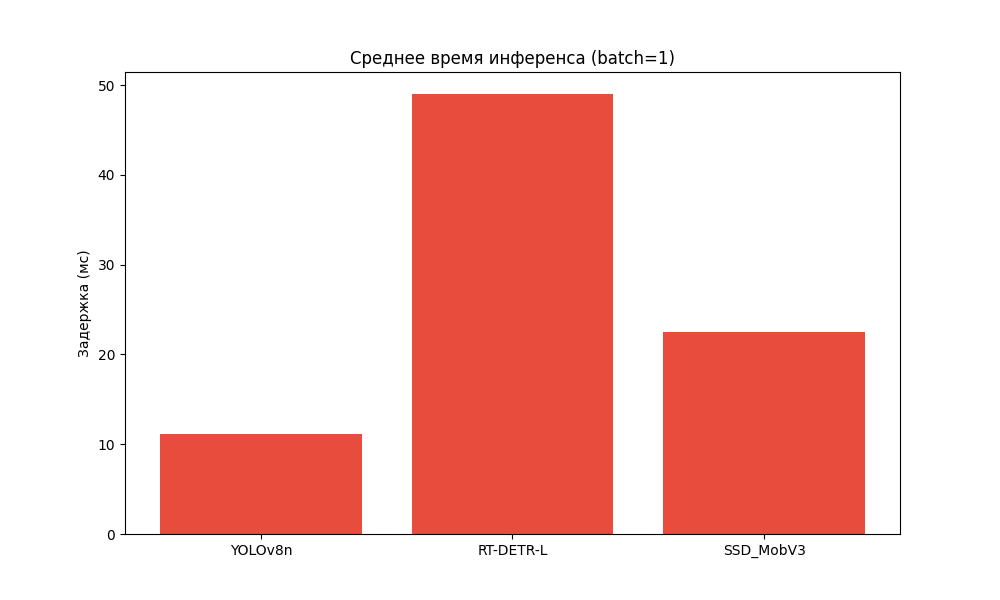
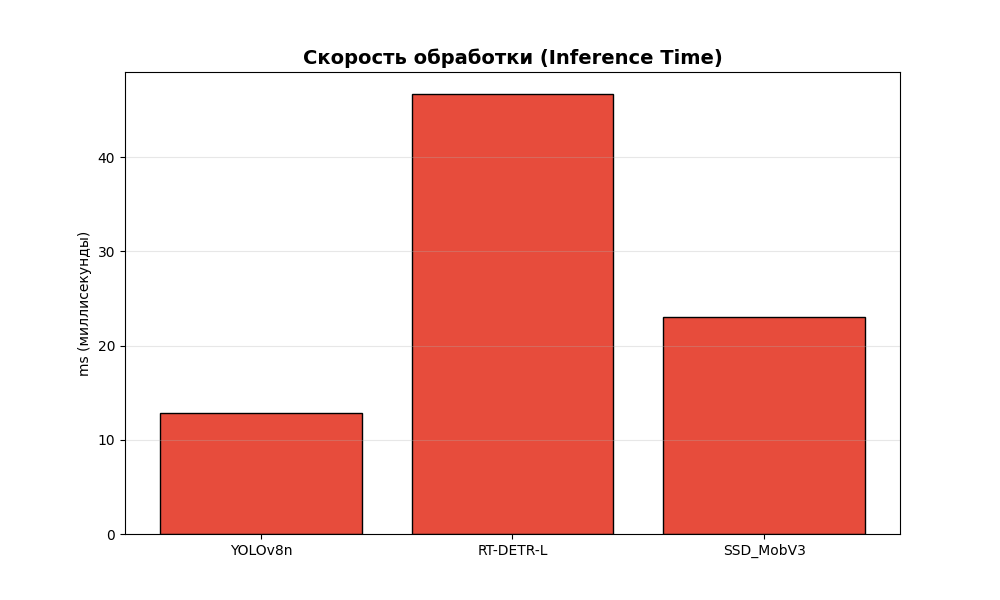
addd new metrics in compation

diff --git a/neural_networks/comparison.py b/neural_networks/comparison.py
@@ -15,13 +15,11 @@ from torchvision.models.detection.ssdlite import SSDLiteClassificationHead
 from functools import partial
 from ultralytics import YOLO, RTDETR
 
-# --- 1. НАСТРОЙКИ GPU ДЛЯ RTX 5050 (Blackwell) ---
 os.environ['TORCH_CUDA_ARCH_LIST'] = '9.0'
 os.environ['CUDA_MODULE_LOADING'] = 'LAZY'
 torch.backends.cudnn.enabled = False 
 torch.backends.cuda.matmul.allow_tf32 = False
 
-# --- 2. ПУТИ ---
 SCRIPT_PATH = Path(__file__).resolve()
 BASE_PATH   = SCRIPT_PATH.parent.parent
 DATASET_DIR = BASE_PATH / "dataset"
@@ -34,10 +32,6 @@ MODELS_CONFIG = [
     {"name": "RT-DETR-L", "path": BASE_PATH / "neural_networks/rf_detr_nano/weights/rtdetr_best.pt", "type": "ultralytics"},
     {"name": "SSD_MobV3", "path": BASE_PATH / "neural_networks/ssd_mobilenetv2/weights/ssd_best.pt", "type": "ssd"}
 ]
-
-# =====================================================================
-# ЛОГИКА SSD (ПОЛНОЕ ВОССОЗДАНИЕ ИЗ SSD_MOBILENETV2.PY)
-# =====================================================================
 
 def build_ssd_model(num_classes=2):
     model = ssdlite320_mobilenet_v3_large(weights=None, weights_backbone=None)
@@ -56,23 +50,26 @@ def ssd_box_iou(box, boxes):
     area2 = (boxes[:, 2] - boxes[:, 0]) * (boxes[:, 3] - boxes[:, 1])
     return inter / (area1 + area2 - inter + 1e-6)
 
-def ssd_match_boxes(pred_boxes, gt_boxes):
-    if len(gt_boxes) == 0: return 0, len(pred_boxes), 0
-    if len(pred_boxes) == 0: return 0, 0, len(gt_boxes)
-    matched_gt = set()
-    tp, fp = 0, 0
-    for pb in pred_boxes:
-        ious = ssd_box_iou(pb.unsqueeze(0), gt_boxes)
-        best_iou, best_idx = ious.max(0)
-        if best_iou >= 0.5 and int(best_idx) not in matched_gt:
-            tp += 1
-            matched_gt.add(int(best_idx))
-        else: fp += 1
-    return tp, fp, len(gt_boxes) - len(matched_gt)
-
-# =====================================================================
-# ТЕСТОВЫЕ ДВИЖКИ
-# =====================================================================
+def calculate_ssd_metrics(pred_boxes, gt_boxes, iou_thresholds):
+    results = []
+    for iou_th in iou_thresholds:
+        if len(gt_boxes) == 0:
+            results.append({'tp': 0, 'fp': len(pred_boxes), 'fn': 0})
+            continue
+        if len(pred_boxes) == 0:
+            results.append({'tp': 0, 'fp': 0, 'fn': len(gt_boxes)})
+            continue
+            
+        matched_gt = set()
+        tp = 0
+        for pb in pred_boxes:
+            ious = ssd_box_iou(pb.unsqueeze(0), gt_boxes)
+            best_iou, best_idx = ious.max(0)
+            if best_iou >= iou_th and int(best_idx) not in matched_gt:
+                tp += 1
+                matched_gt.add(int(best_idx))
+        results.append({'tp': tp, 'fp': len(pred_boxes) - tp, 'fn': len(gt_boxes) - len(matched_gt)})
+    return results
 
 def get_test_subsets():
     img_dir = DATASET_DIR / "images" / "Test"
@@ -85,7 +82,7 @@ def get_test_subsets():
     return day, night
 
 def validate_ultralytics(cfg, file_list, subset_name):
-    print(f"   - Валидация {subset_name}...")
+    print(f"   - Валидация {cfg['name']} ({subset_name})...")
     model = RTDETR(str(cfg['path'])) if "rtdetr" in cfg['name'].lower() else YOLO(str(cfg['path']))
     
     tmp_txt = DATASET_DIR / f"tmp_list_{subset_name}.txt"
@@ -94,25 +91,28 @@ def validate_ultralytics(cfg, file_list, subset_name):
     with open(DATA_YAML) as f: y_cfg = yaml.safe_load(f)
     y_cfg.update({'path': '', 'test': str(tmp_txt.resolve())})
     tmp_yaml = DATASET_DIR / f"tmp_yaml_{subset_name}.yaml"
-    with open(tmp_yaml, 'w') as f: yaml.dump(y_cfg, f)
+    with open(tmp_yaml, 'w', encoding='utf-8') as f: yaml.dump(y_cfg, f)
 
     results = model.val(data=str(tmp_yaml), split='test', imgsz=640, batch=1, device=0, verbose=False, plots=False)
-    
     os.remove(tmp_txt); os.remove(tmp_yaml)
+    
     return {
-        "mAP50": round(results.box.map50, 4),
+        "Precision": round(results.box.p.mean(), 4),
         "Recall": round(results.box.r.mean(), 4),
+        "mAP50": round(results.box.map50, 4),
+        "mAP50_95": round(results.box.map, 4),
         "Lat_ms": round(results.speed['inference'], 2)
     }
 
 def validate_ssd(cfg, file_list, subset_name):
-    print(f"   - Валидация {subset_name}...")
+    print(f"   - Валидация {cfg['name']} ({subset_name})...")
     model = build_ssd_model().to("cuda")
     model.load_state_dict(torch.load(cfg['path'], map_location="cuda"))
     model.eval()
     
     transform = transforms.Compose([transforms.ToTensor()])
-    tp_t, fp_t, fn_t = 0, 0, 0
+    iou_ths = np.linspace(0.5, 0.95, 10) # Пороги для mAP50-95
+    stats = {th: {'tp': 0, 'fp': 0, 'fn': 0} for th in iou_ths}
     latencies = []
 
     with torch.no_grad():
@@ -120,12 +120,10 @@ def validate_ssd(cfg, file_list, subset_name):
             img_pil = Image.open(p).convert("RGB").resize((320, 320))
             img_t = transform(img_pil).unsqueeze(0).to("cuda")
             
-            # Замер времени
             t1 = time.perf_counter()
             preds = model(img_t)
             latencies.append((time.perf_counter() - t1) * 1000)
 
-            # Расчет метрик (как в вашем скрипте)
             label_p = Path(p.replace("images", "labels")).with_suffix(".txt")
             gt_boxes = []
             with open(label_p) as f:
@@ -136,64 +134,90 @@ def validate_ssd(cfg, file_list, subset_name):
             gt_boxes = torch.tensor(gt_boxes)
             p_boxes = preds[0]["boxes"].cpu()[preds[0]["scores"].cpu() >= 0.5]
             
-            tp, fp, fn = ssd_match_boxes(p_boxes, gt_boxes)
-            tp_t += tp; fp_t += fp; fn_t += fn
+            frame_stats = calculate_ssd_metrics(p_boxes, gt_boxes, iou_ths)
+            for i, th in enumerate(iou_ths):
+                stats[th]['tp'] += frame_stats[i]['tp']
+                stats[th]['fp'] += frame_stats[i]['fp']
+                stats[th]['fn'] += frame_stats[i]['fn']
 
-    p = tp_t / (tp_t + fp_t + 1e-6)
-    r = tp_t / (tp_t + fn_t + 1e-6)
-    return {"mAP50": round(p, 4), "Recall": round(r, 4), "Lat_ms": round(np.mean(latencies), 2)}
+    aps = []
+    for th in iou_ths:
+        p = stats[th]['tp'] / (stats[th]['tp'] + stats[th]['fp'] + 1e-6)
+        r = stats[th]['tp'] / (stats[th]['tp'] + stats[th]['fn'] + 1e-6)
+        aps.append(p) 
+    
+    return {
+        "Precision": round(aps[0], 4),
+        "Recall": round(stats[0.5]['tp'] / (stats[0.5]['tp'] + stats[0.5]['fn'] + 1e-6), 4),
+        "mAP50": round(aps[0], 4),
+        "mAP50_95": round(np.mean(aps), 4),
+        "Lat_ms": round(np.mean(latencies), 2)
+    }
 
-# =====================================================================
-# ОСНОВНОЙ ЦИКЛ
-# =====================================================================
+def plot_accuracy_matrix(report):
+    metrics = ["Precision", "Recall", "mAP50", "mAP50_95"]
+    models = [r['model'] for r in report]
+    x = np.arange(len(models))
+    width = 0.35
+
+    fig, axes = plt.subplots(2, 2, figsize=(15, 12))
+    fig.suptitle('Сравнение метрик точности: День vs Ночь', fontsize=18, fontweight='bold')
+    
+    axes = axes.flatten()
+    colors = {'day': '#f1c40f', 'night': '#34495e'}
+
+    for i, m in enumerate(metrics):
+        day_vals = [r['day'][m] for r in report]
+        night_vals = [r['night'][m] for r in report]
+        
+        axes[i].bar(x - width/2, day_vals, width, label='День', color=colors['day'], edgecolor='black', alpha=0.8)
+        axes[i].bar(x + width/2, night_vals, width, label='Ночь', color=colors['night'], edgecolor='black', alpha=0.9)
+        
+        axes[i].set_title(f'Метрика: {m}', fontsize=14, fontweight='bold')
+        axes[i].set_xticks(x)
+        axes[i].set_xticklabels(models)
+        axes[i].set_ylim(0, 1.1)
+        axes[i].grid(axis='y', linestyle='--', alpha=0.5)
+        if i == 0: axes[i].legend()
+
+    plt.tight_layout(rect=[0, 0.03, 1, 0.95])
+    plt.savefig(OUTPUT_DIR / "accuracy.png", dpi=150)
 
 def main():
     day_files, night_files = get_test_subsets()
-    all_files = day_files + night_files
     report = []
 
     for cfg in MODELS_CONFIG:
-        print(f"\n>>> СРАВНЕНИЕ МОДЕЛИ: {cfg['name']}")
-        if not cfg['path'].exists():
-            print(f"!!! Файл {cfg['path'].name} не найден. Пропуск.")
-            continue
+        print(f"\n>>> СТАРТ ТЕСТА: {cfg['name']}")
+        if not cfg['path'].exists(): continue
 
         if cfg['type'] == "ultralytics":
-            res_all   = validate_ultralytics(cfg, all_files, "all")
-            res_day   = validate_ultralytics(cfg, day_files, "day")
+            res_day = validate_ultralytics(cfg, day_files, "day")
             res_night = validate_ultralytics(cfg, night_files, "night")
         else:
-            res_all   = validate_ssd(cfg, all_files, "all")
-            res_day   = validate_ssd(cfg, day_files, "day")
+            res_day = validate_ssd(cfg, day_files, "day")
             res_night = validate_ssd(cfg, night_files, "night")
 
         report.append({
             "model": cfg['name'],
-            "all": res_all, "day": res_day, "night": res_night
+            "day": res_day,
+            "night": res_night
         })
 
-    # Сохранение JSON
-    with open(OUTPUT_DIR / "comparison_results.json", "w", encoding="utf-8") as f:
+    with open(OUTPUT_DIR / "comparison_report.json", "w", encoding="utf-8") as f:
         json.dump(report, f, indent=4)
 
-    # ПОСТРОЕНИЕ ГРАФИКОВ
-    names = [r['model'] for r in report]
-    m_day = [r['day']['mAP50'] for r in report]
-    m_night = [r['night']['mAP50'] for r in report]
-    lats = [r['all']['Lat_ms'] for r in report]
-
-    x = np.arange(len(names))
-    plt.figure(figsize=(12, 6))
-    plt.bar(x - 0.2, m_day, 0.4, label='День (mAP50)', color='#f1c40f')
-    plt.bar(x + 0.2, m_night, 0.4, label='Ночь (mAP50)', color='#34495e')
-    plt.xticks(x, names); plt.ylabel('Точность'); plt.legend(); plt.grid(axis='y', alpha=0.3)
-    plt.title('Сравнение точности детектирования'); plt.savefig(OUTPUT_DIR / "accuracy.png")
+    plot_accuracy_matrix(report)
 
     plt.figure(figsize=(10, 6))
-    plt.bar(names, lats, color='#e74c3c')
-    plt.ylabel('Задержка (мс)'); plt.title('Среднее время инференса (batch=1)'); plt.savefig(OUTPUT_DIR / "latency.png")
+    lats = [r['day']['Lat_ms'] for r in report]
+    plt.bar([r['model'] for r in report], lats, color='#e74c3c', edgecolor='black')
+    plt.title('Скорость обработки (Inference Time)', fontsize=14, fontweight='bold')
+    plt.ylabel('ms (миллисекунды)')
+    plt.grid(axis='y', alpha=0.3)
+    plt.savefig(OUTPUT_DIR / "latency.png")
 
-    print(f"\nГотово! Отчет и графики сохранены в: {OUTPUT_DIR}")
+    print(f"\nСравнение завершено. Результаты в папке: {OUTPUT_DIR}")
 
 if __name__ == "__main__":
     main()